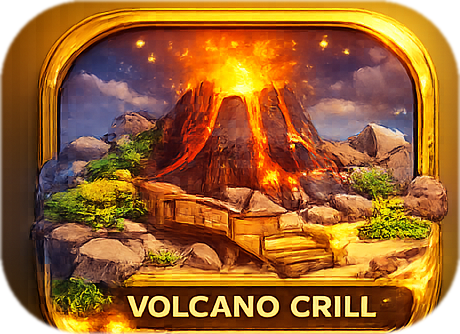
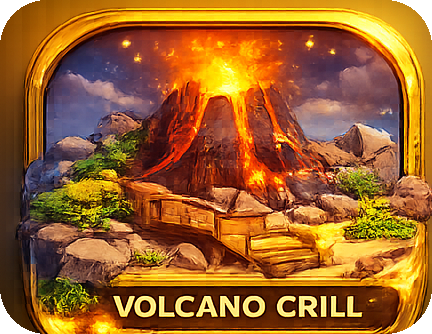
fix(map): tighten travel card bounds

diff --git a/src/components/game/MapScreen.tsx b/src/components/game/MapScreen.tsx
@@ -104,9 +104,9 @@ const MapScreen: React.FC<MapScreenProps> = ({ coins, onBack }) => {
                   <button
                     type="button"
                     className={cn(
-                      'group relative inline-flex min-w-0 overflow-visible bg-transparent text-left outline-none transition-all duration-200',
-                      'drop-shadow-[0_12px_24px_rgba(0,0,0,0.38)] hover:scale-[1.03] focus-visible:scale-[1.03]',
-                      isActive ? 'scale-[1.03] shadow-[0_0_38px_rgba(250,204,21,0.38)]' : '',
+                      'group relative inline-flex min-w-0 bg-transparent text-left outline-none transition-all duration-200',
+                      'drop-shadow-[0_12px_24px_rgba(0,0,0,0.38)] hover:scale-[1.02] focus-visible:scale-[1.02]',
+                      isActive ? 'scale-[1.02]' : '',
                     )}
                     onMouseEnter={() => setActiveLocation(location.id)}
                     onMouseLeave={() => setActiveLocation(null)}
@@ -116,15 +116,24 @@ const MapScreen: React.FC<MapScreenProps> = ({ coins, onBack }) => {
                     onTouchEnd={() => window.setTimeout(() => setActiveLocation(null), 500)}
                     aria-label={`${location.title}, locked`}
                   >
-                    <img
-                      src={location.image}
-                      alt=""
+                    <span
                       className={cn(
-                        'block h-auto w-[14rem] max-w-full transition-all duration-200 sm:w-[15.25rem]',
-                        location.id === 'barbecue' ? '-translate-y-1 sm:w-[15.75rem]' : '',
-                        isActive ? 'grayscale-0 saturate-125' : 'grayscale saturate-50 brightness-75 group-hover:grayscale-0 group-hover:saturate-125 group-hover:brightness-100 group-focus-visible:grayscale-0 group-focus-visible:saturate-125 group-focus-visible:brightness-100 group-active:grayscale-0 group-active:saturate-125 group-active:brightness-100',
+                        'pointer-events-none absolute inset-[4.5%] rounded-[1.9rem] opacity-0 transition-opacity duration-200',
+                        'bg-[radial-gradient(circle,rgba(250,204,21,0.22)_0%,rgba(56,189,248,0.16)_40%,rgba(56,189,248,0)_76%)]',
+                        isActive ? 'opacity-100' : 'group-hover:opacity-75 group-focus-visible:opacity-75 group-active:opacity-75',
                       )}
+                      aria-hidden="true"
                     />
+                    <span className="relative block w-[14rem] max-w-full overflow-hidden rounded-[1.9rem] sm:w-[15.25rem]">
+                      <img
+                        src={location.image}
+                        alt=""
+                        className={cn(
+                          'block h-auto w-full transition-all duration-200',
+                          isActive ? 'grayscale-0 saturate-125 brightness-100' : 'grayscale saturate-50 brightness-75 group-hover:grayscale-0 group-hover:saturate-125 group-hover:brightness-100 group-focus-visible:grayscale-0 group-focus-visible:saturate-125 group-focus-visible:brightness-100 group-active:grayscale-0 group-active:saturate-125 group-active:brightness-100',
+                        )}
+                      />
+                    </span>
                     <span className="absolute left-1/2 top-1/2 inline-flex h-10 w-12 -translate-x-1/2 -translate-y-1/2 items-center justify-center rounded-lg border border-black/35 bg-zinc-200/95 shadow-[0_8px_18px_rgba(0,0,0,0.5)] transition-transform duration-200 group-hover:scale-105 group-active:scale-95 sm:h-12 sm:w-14">
                       <Lock className="h-5 w-5 text-zinc-900 sm:h-6 sm:w-6" />
                     </span>

diff --git a/STATUS.md b/STATUS.md
@@ -40,6 +40,8 @@ In progress.
 - removed the rectangular hover/active frames from the bottom menu and switched to a softer glow that sits behind the art instead of boxing each button
 - re-centered the main `Cast` CTA above the bottom menu and kept the rod badge separate so the button itself stays visually centered
 - restyled the `Inventory` trigger into the same arcade/button language as the rest of the HUD
+- tightened the Travel Map preview cards so the hover/active zone follows the card shape instead of a larger square hit box
+- re-cut the `Volcano Grill` map card into a cleaner rounded rectangle so it no longer drags extra padding around the icon
 
 ### Validation for milestone 2
 - `npm run build` - passed
